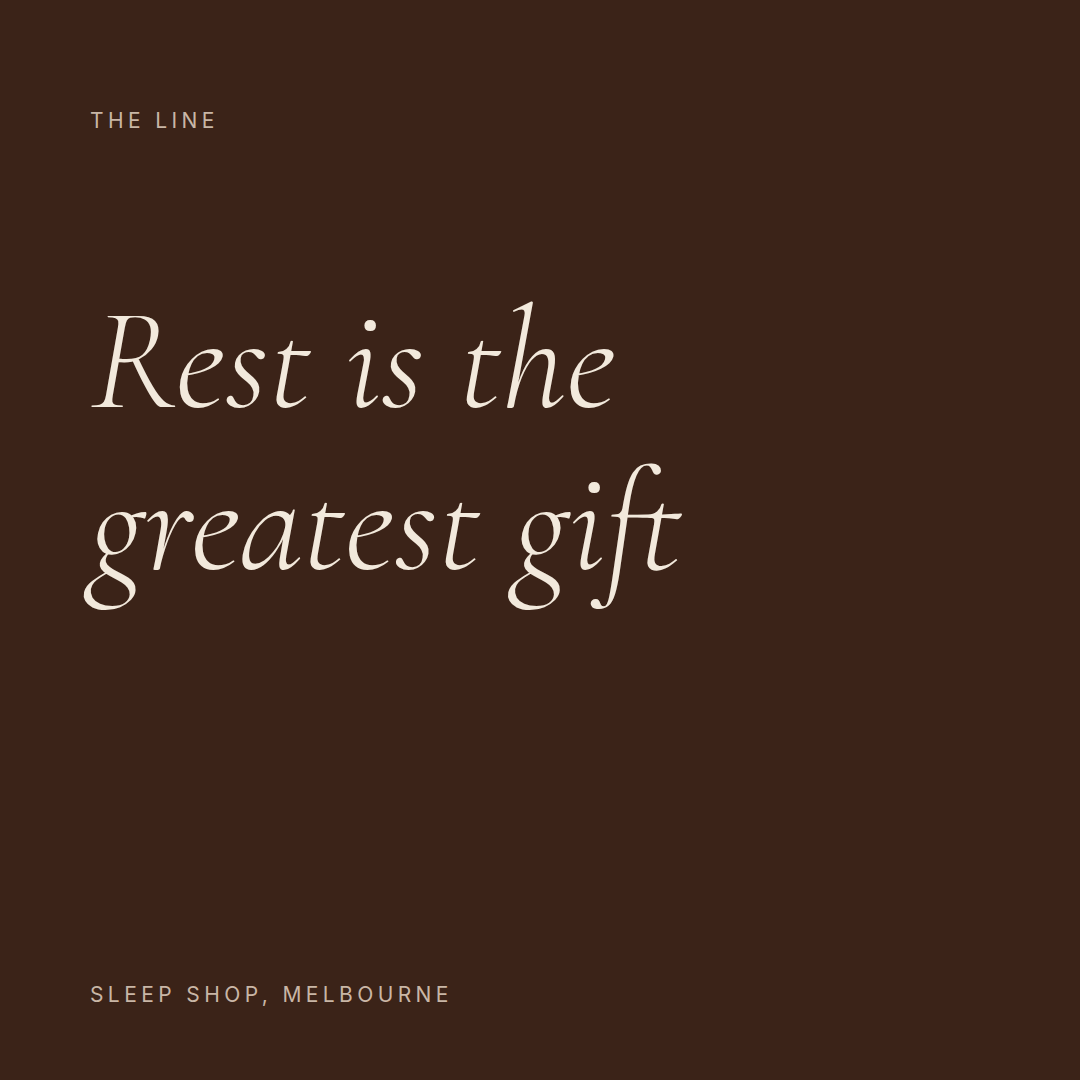
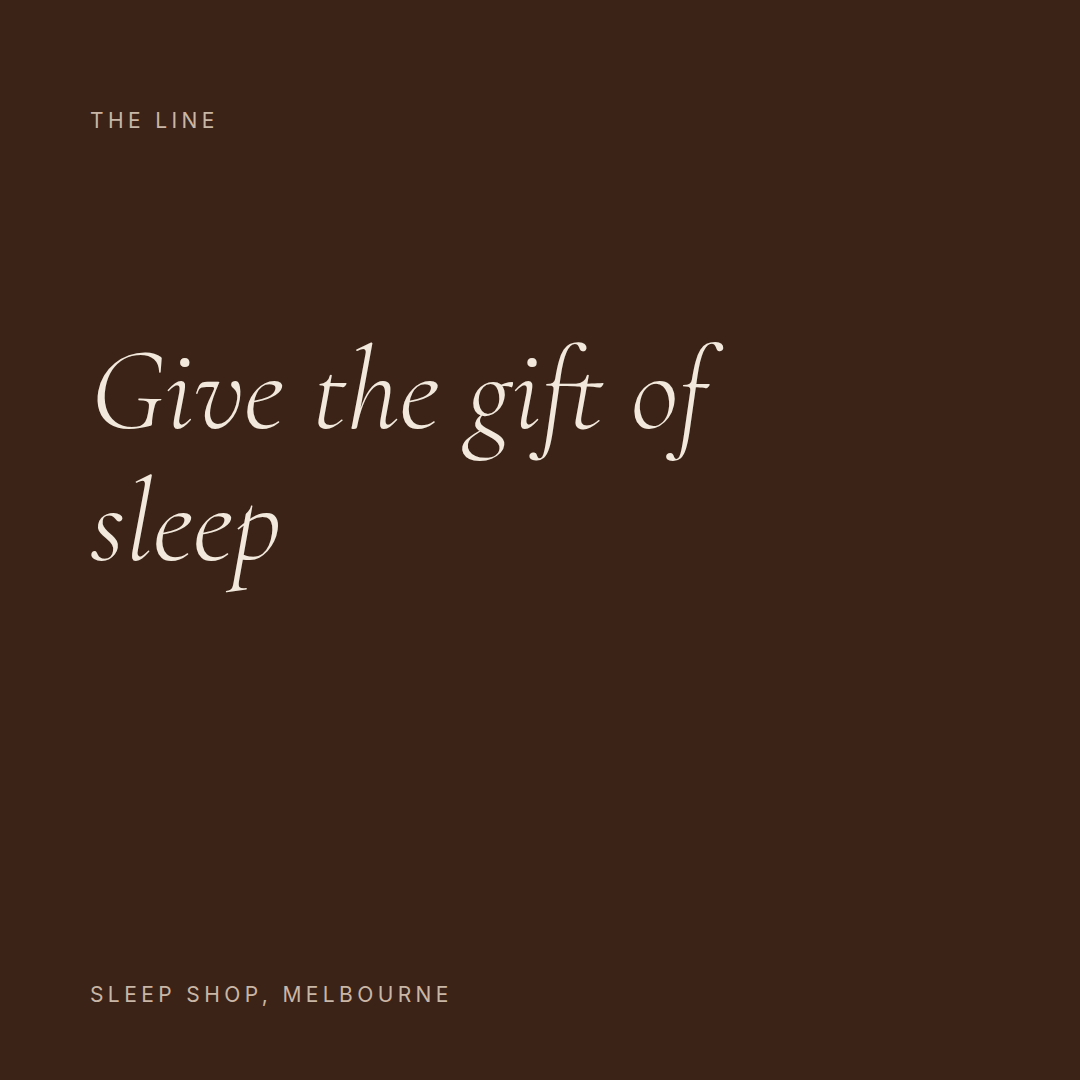
Social follows the brand: tagline adopted, rituals week, new box
"Give the gift of sleep" moves from blocked-by-name to the brand line.
The README section that argued against it becomes a decision record: the
reasoning was put to the founder twice, the line was chosen, and as a
tagline it reads as sentiment rather than as a claim that silk
administers sleep. The linter now blocks the escalations instead -
"delivers sleep", "guarantees sleep", "gift of better sleep" - and every
outcome-claim rule underneath stays exactly as strict.

Calendar reworked for the new box: week two reveals four pieces plus the
ritual card, week three swaps the mask range for the rituals (the
editorial spine of the new brand), the launch and evergreen captions
drop the tea, socks, candle and scrunchie that are no longer in the box.
The "Four masks, one strap" evergreen tile becomes "Instead of flowers",
which is the positioning in one line. Bio updated to match.

Tiles regenerated: 12 including the new week-three ritual tile.
All 12 caption tests pass.

Claude-Session: https://claude.ai/code/session_01RuJY1GzS97PDPUnKjq2Csy

diff --git a/social/README.md b/social/README.md
@@ -3,29 +3,31 @@
 Instagram first, because that is what the brand plan is built around. Everything
 here ports to TikTok and Pinterest with the same captions and the same grounds.
 
-## The taglines, and one to avoid
+## The taglines
 
 | Line | Use it |
 | --- | --- |
-| **Rest is the greatest gift** | Yes. The anchor. Already on the site. |
-| **Give the most important thing** | Yes. Good secondary, works as a launch line and on the Birthdays page. |
-| ~~Give the gift of sleep~~ | **No.** See below. |
+| **Give the gift of sleep** | Yes. The brand line, chosen by the founder. See the decision record below. |
+| **Rest is the greatest gift** | Yes. Secondary, still true, still on the ritual card. |
+| **Give the most important thing** | Yes. Works as a launch line and for occasions. |
 
-"Give the gift of sleep" is the obvious line and half the category uses it. It is
-also the one that turns a box of silk and tea into a product that claims to
-deliver sleep. That is a performance claim about the goods, which is exactly what
-the TGA and ACCC rules in the brief rule out, and a tagline is the worst place to
-have one because it ends up on the bio, the ads and the packaging.
+### The decision record, so nobody re-litigates it by accident
 
-The difference is small and it matters:
+"Give the gift of sleep" was blocked here originally: read strictly, it says the
+product delivers sleep, and the brief's TGA and ACCC rules exclude performance
+claims about the goods. That reasoning was put to the founder, twice, and the
+line was chosen anyway as the core of the brand. That is a legitimate call to
+make: as a tagline it sits close to puffery, the kind of aspirational line a
+reasonable customer reads as sentiment rather than as a promise that a silk
+mask administers sleep. Half the category uses it for exactly that reason.
 
-- "Rest is the greatest gift" is a statement about rest. No promise attached.
-- "Give the most important thing" is a statement about the gesture. Same warmth,
-  no promise.
-- "Give the gift of sleep" says buying this gives someone sleep.
-
-The linter blocks the third one, so it cannot quietly reappear in a caption in
-six months when somebody is writing posts in a hurry.
+What the decision does **not** change: the line is the ceiling, not a licence.
+Everything underneath it stays inside rest, ritual, comfort, care and the
+object. The linter still fails any caption that promises an outcome, and it
+also blocks the escalations of the tagline itself: "delivers sleep",
+"guarantees sleep", "the gift of better sleep". If a regulator or a lawyer
+ever pushes back on the line, it is one string in `calendar.json`, one in the
+site data, and this section to update.
 
 ## Caption rules
 
@@ -70,9 +72,10 @@ the first run of these tiles went out in Chromium's default serif.
 ## The calendar
 
 `calendar.json` holds four weeks, sixteen posts, Monday Wednesday Friday Sunday.
-Each entry has the format, the ground, the caption and what to shoot. It differs
-from the original plan in one way: the mask range now exists, so week three
-introduces the masks as the way in rather than being purely about occasions.
+Each entry has the format, the ground, the caption and what to shoot. Week one
+builds the world, week two reveals the box, week three is the rituals, week
+four is the launch. The rituals week is the editorial spine: content that is
+useful on its own, with the pieces underneath it.
 
 Four a week is the most a founder packing boxes can sustain, and it is enough.
 Stories on the three days between.
@@ -88,9 +91,9 @@ is not, so it carries the location.
 **Bio**
 
 ```
-Rest is the greatest gift.
-One box, eight pieces, packed by hand in Melbourne.
-Silk masks from $49.
+Give the gift of sleep.
+One box, four pieces, packed by hand in Melbourne.
+Instead of flowers.
 ```
 
 Then the link. Do not put a phone number in the bio: it turns the profile into a
